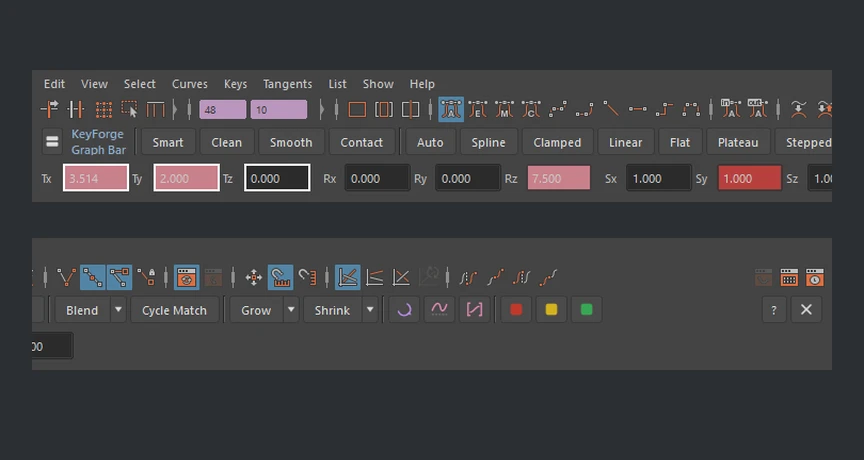
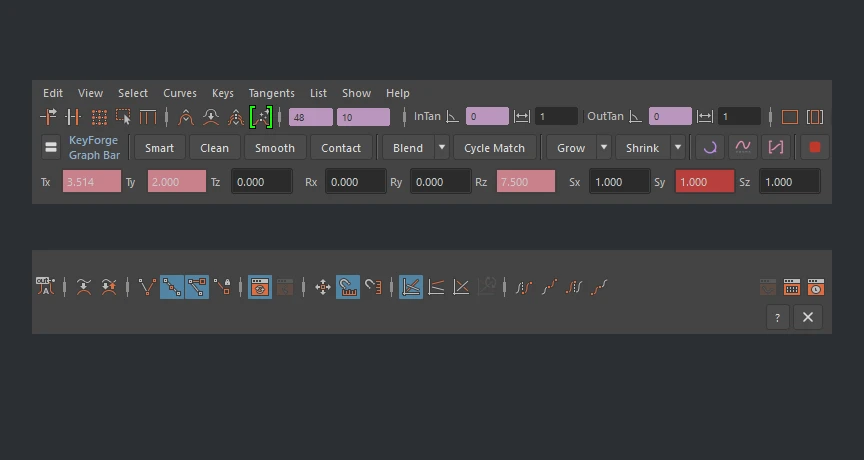
KeyForge 0.8.0 and Lite 1.1.0: new bar, KeyForge Tools window, one-row Graph Bar, Pose Library and Selection Sets sections, 1920 px toolbar images

Changed region(s): [[0.0312, 0.1522, 0.9688, 0.4261], [0.0312, 0.5174, 0.9688, 0.8217], [0.875, 0.5783, 0.9688, 0.7]]

diff --git a/_docs/keyforge.md b/_docs/keyforge.md
@@ -55,15 +55,15 @@ If you have KeyForge Lite installed, installing KeyForge removes it for you.
 
 ## Hotkeys
 
-Right-click the bar and choose **Assign hotkeys**, then type "KeyForge" in the Hotkey Editor's search. Try the pop-up slider first. You can also make the S key run Smart Key.
+Open **KeyForge Tools** (gear menu, or right-click the bar), pick a tool in the Catalog, click the Hotkey box and press the keys. If the key is already taken, KeyForge asks before it replaces it. **Clear** takes the key away. Try the pop-up slider first. You can also make the S key run Smart Key, or use **Assign hotkeys** on the bar's right-click menu to work in Maya's Hotkey Editor.
 
 ## The Graph Bar
 
-{% include figure.html slug="keyforge" name="graphbar-2row" alt="The KeyForge Graph Bar inside Maya's Graph Editor, in two rows" caption="The KeyForge Graph Bar sits inside the Graph Editor, right under its own buttons. Two rows: tools above, channels below." %}
+{% include figure.html slug="keyforge" name="graphbar-1row" alt="The KeyForge Graph Bar in one row inside Maya's Graph Editor, with the channel fields beside the tools" caption="The KeyForge Graph Bar in one row: the tools, then the channel fields, right under the Graph Editor's own buttons." %}
 
-The Graph Bar puts the same tools inside the Graph Editor, so you can use them while you look at curves. The button at the far left switches between one row and two. Click the **?** at the right end for a short guide.
+The Graph Bar puts the same tools inside the Graph Editor, so you can use them while you look at curves. It starts in one row, with the tools and the channel fields side by side. The button at the far left switches between one row and two. Click the **?** at the right end for a short guide. What doesn't fit at a narrower width waits in the » menu.
 
-{% include figure.html slug="keyforge" name="graphbar-1row" alt="The KeyForge Graph Bar in one row, with the channel fields beside the tools" caption="One row: the channel fields sit right after the tools." %}
+{% include figure.html slug="keyforge" name="graphbar-2row" alt="The KeyForge Graph Bar in two rows, with the channel fields on the second row" caption="Two rows: tools above, channels below." %}
 
 **Channel fields.** Translate, Rotate and Scale of the object picked in the Graph Editor's list, like the Channel Box:
 
@@ -71,17 +71,58 @@ The Graph Bar puts the same tools inside the Graph Editor, so you can use them w
 - **Several at once:** click and drag across the small labels (Tx, Ty, Tz and so on) to select channels, and hold Ctrl to add more. Locked and hidden channels are skipped. Then type a value to set them all, or middle-drag a box to scrub them together (Ctrl for fine, Shift for coarse). One Ctrl+Z undoes a whole scrub.
 - **Right-click a channel** for Key, Remove key, Key Translate, Rotate or Scale, Lock and Unlock, Mute and Unmute, Break connections, Reset to default, and Copy and Paste value.
 
-## Pose Library and Selection Sets
+## Pose Library
 
 {% include figure.html slug="keyforge" name="pose-library" side="right" alt="KeyForge Pose Library with pose thumbnails" caption="The Pose Library saves poses with a thumbnail." %}
 
-The **Pose Library** saves poses with a thumbnail, sorted by character into your own folders, with 2 to 8 thumbnails per row. **Selection Sets** are named groups of controls, such as Face, Eyebrows or Left Hand, that you select with one click.
+Open it from the **Poses** button in KeyForge Tools, or from the Pose Library button on the bar. It is a persistent pose browser:
 
-## Customize the bar
+- **Characters and folders:** characters are listed on the left, each with the folders you make inside it (Face, Body, Hands, named however you like). Use **+ Character** and **+ Folder**, and right-click to rename or delete. Poses saved without a character go to *Unassigned*.
+- **Thumbnails:** pick a character or folder to see its poses as a grid on the right. The **Thumbnails** slider, or Ctrl + mouse wheel, sets how many fit in a row, from 2 to 8.
+- **Save:** select the controls, choose a character and folder, and save. KeyForge also captures the viewport as the thumbnail, a visual reference only that is not part of the pose data. Saving over an existing name asks before it replaces it.
+- **Apply:** double-click a pose, or select it and press **Apply**. Use the blend slider to bring a pose in part of the way. Applying makes keys on animated channels at the current frame and sets channels that aren't animated directly, all in one undo step.
+- **Organize:** drag poses onto a folder to move them, or use **Move...**. Search looks through every character. Right-click a pose to replace it with the current pose, retake its thumbnail or rename it, and use **Delete** to remove poses.
+- **Across rigs:** controls are matched by short name, so a pose saved on one rig applies to another with the same control names, even in a different namespace.
+- **Where it lives:** pose data is stored as JSON under `Data/KeyForge/PoseLibrary/<Character>/<Folder>/` in your LP Tools data folder, outside your scenes. A library from an earlier build is sorted into this layout the first time it opens.
 
-{% include figure.html slug="keyforge" name="customizer" side="left" alt="The KeyForge bar customizer" caption="Add, remove and reorder what shows on the bar." %}
+<div style="clear:both"></div>
 
-The bar is yours to arrange. The customizer lists the bar from left to right. Drag to reorder, or double-click or use the arrows to add or remove a tool. Search the list on the right to find one, such as bake, mirror or tint. The bar updates as you go, and anything that doesn't fit moves into the » menu. You can also use presets, two rows, group labels and text labels, change the size, and undo your changes.
+## Selection Sets
+
+{% include figure.html slug="keyforge" name="selection-sets" side="left" alt="The KeyForge Selection Sets window with one button per set" caption="The Selection Sets window: one button per set, with its control count." %}
+
+Selection Sets are named groups of controls, one button each. Open the window from the Selection Sets button on the bar (it sits beside Pose Library in two rows) or from the Select group in the gear menu.
+
+1. Select some controls.
+2. Click **+ New Set from Selection** and name it, for example Face, Eyebrows or Left Hand.
+3. Click the set any time to select its controls.
+
+- **Click** selects the set, **Shift + click** adds it to your selection, and **Ctrl + click** removes it.
+- **Right-click** a set to replace its controls with your current selection, add your selection to it, remove your selection from it, rename it or delete it.
+- The window grows and wraps as you make more sets, and shows how many controls each one holds.
+- Sets are ordinary Maya object sets saved in the scene, so they travel with the file.
+
+<div style="clear:both"></div>
+
+## One row or two, workspaces and slider slots
+
+The bar starts as one slim 32 pixel row: the 14 everyday buttons and three sliders. The rows button at the far left switches to two rows, which show every button on top and up to five sliders on the row below.
+
+{% include figure.html slug="keyforge" name="ui-two-rows" alt="The KeyForge bar in two rows" caption="Two rows: every button on top, five sliders below." %}
+
+- **Workspaces** (gear menu > Workspace): Essentials, Blocking, Polish, Layout and Rig, Full, and Classic, the exact 0.7 bar. A workspace never changes the row count. Save the current bar as your own preset from the same menu.
+- **Slider slots:** each slot has a small arrow that swaps its tool for any of the 25 sliders, and the choice is remembered.
+- **The gear:** the switches (Overshoot, Smart Euler, Channel Box filter, Auto Tint, Pause Viewport), Workspace, every command in groups, Settings, KeyForge Tools and the Quick Guide. Small pills next to the target dot show the Channel Box filter and Overshoot while they are on.
+
+## KeyForge Tools
+
+{% include figure.html slug="keyforge" name="window" side="right" alt="The KeyForge Tools window, Catalog tab" caption="The Catalog lists every tool with its hotkey and a star." %}
+
+Open it from the gear menu or by right-clicking the bar. The **Catalog** lists every tool by group, with search. Click a star to put a tool on the bar (in two rows it asks whether the tool shows in both modes or only in two rows). Pick a row to read what it does, give it a hotkey, run it, or, for a slider, drag the slider right there.
+
+{% include figure.html slug="keyforge" name="customizer" side="left" alt="The KeyForge Tools window, Bar tab" caption="The Bar tab: drag to reorder what shows on the bar." %}
+
+The **Bar** tab lists the bar from left to right. Drag to reorder, add a separator, or remove an item. The bar updates as you go, anything that doesn't fit moves into the » menu, and **Undo my changes** puts it back the way it was. The same tab has the two-row switch, group labels, text labels, size and colored icons. The **Settings** tab holds the options for the tools.
 
 ## Sliders
 
@@ -101,4 +142,4 @@ The bar is yours to arrange. The customizer lists the bar from left to right. Dr
 
 ## Try it first
 
-[KeyForge Lite](/tools/keyforge-lite/) is free and gives you the Tween, Blend to Neighbors and Pull / Push sliders plus Smart Key, Reset Pose and Copy / Paste Pose.
+[KeyForge Lite](/tools/keyforge-lite/) is free and gives you the Tween, Blend to Neighbors and Pull / Push sliders plus Smart Key, Delete Keys, Nudge, Copy / Paste Pose, Reset Pose and Tint.

diff --git a/_tools/keyforge.md b/_tools/keyforge.md
@@ -21,9 +21,15 @@ features:
 
 I'm not an animator, but I've worked next to animators my whole career, and I've seen how much of their day goes to clicking through menus instead of animating. KeyForge puts 25 blend sliders and more than 170 animation tools on one compact bar docked right under the timeline. Tween and blend poses, retime keys, mirror, bake, tint keys by type, work in world space and use temp controls, without digging through menus.
 
-**Try it free first:** [KeyForge Lite](/tools/keyforge-lite/) gives you the Tween, Blend to Neighbors and Pull / Push sliders plus Smart Key, Reset Pose and Copy / Paste Pose, at no cost. If you like it, come back for the full KeyForge. Installing it removes KeyForge Lite for you.
+**Try it free first:** [KeyForge Lite](/tools/keyforge-lite/) gives you the Tween, Blend to Neighbors and Pull / Push sliders plus Smart Key, Delete Keys, Nudge, Copy / Paste Pose, Reset Pose and Tint, at no cost. If you like it, come back for the full KeyForge. Installing it removes KeyForge Lite for you.
 
-{% include figure.html slug="keyforge" name="ui" alt="The KeyForge bar docked under the Maya Time Slider" caption="The KeyForge bar, docked right under the timeline." %}
+{% include figure.html slug="keyforge" name="ui" alt="The KeyForge bar docked under the Maya Time Slider" caption="The KeyForge bar, docked right under the timeline: one slim row by default." %}
+
+## A bar that stays out of your way
+
+The bar starts as one slim 32 pixel row with the 14 buttons you use every shot and three sliders you choose yourself. Each slider slot has a small arrow that swaps in any of the 25 tools. Switch to two rows for the next tier of tools and five sliders, or pick a ready-made workspace (Essentials, Blocking, Polish, Layout and Rig, Full, or the classic 0.7 bar) from the gear menu.
+
+{% include figure.html slug="keyforge" name="ui-two-rows" alt="The KeyForge bar in two rows under the Maya Time Slider" caption="The same bar in two rows: every button on top, five sliders below." %}
 
 ## How it works
 
@@ -31,19 +37,39 @@ Select controls and drag a slider. The dot next to KeyForge shows what will chan
 
 ## What you get
 
-{% include figure.html slug="keyforge" name="graphbar-2row" alt="The KeyForge Graph Bar inside Maya's Graph Editor" caption="The KeyForge Graph Bar sits inside the Graph Editor, right under its own buttons." %}
+{% include figure.html slug="keyforge" name="graphbar-1row" alt="The KeyForge Graph Bar in one row inside Maya's Graph Editor, with the tools and the Translate, Rotate and Scale fields side by side" caption="The KeyForge Graph Bar sits inside the Graph Editor, right under its own buttons: tools and channel fields in one row." %}
 
 - **25 blend sliders:** tween and blend to neighbors, a default pose, a frame or a mirrored pose, shape and ease your curves, mend gaps and cycle, and move poses in world space.
 - **More than 170 tools:** smart keying, copy and paste keys, tangents and key colors, pose and mirror tools, world-space and rig helpers, and navigation and view tools.
 - **A Graph Bar inside the Graph Editor,** so the same tools work while you look at curves, with Translate, Rotate and Scale fields that color like the Channel Box.
 
+- **KeyForge Tools, one window for everything:** a searchable catalog of every tool. Click a star to put a tool on the bar, press keys to give it a hotkey, or run it right there.
+
+{% include figure.html slug="keyforge" name="window" alt="The KeyForge Tools window showing the tool catalog" caption="KeyForge Tools: browse, search, pin and give hotkeys." %}
+
 Every slider and tool is listed in the [KeyForge documentation](/docs/keyforge/).
 
-## Pose Library and Selection Sets
+## Pose Library
 
 {% include figure.html slug="keyforge" name="pose-library" side="right" alt="KeyForge Pose Library with pose thumbnails" caption="The Pose Library saves poses with a thumbnail." %}
 
-The Pose Library saves poses with a thumbnail, sorted by character into your own folders, with 2 to 8 thumbnails per row. Selection Sets are named groups of controls (Face, Eyebrows, Left Hand) that you select with one click.
+Save the selected controls as a pose in one click, with a thumbnail of the viewport so you can find it later. Poses are sorted by character into folders you name yourself (Face, Body, Hands), and a Thumbnails slider sets 2 to 8 poses per row. Search looks through every character at once, and you can drag poses between folders.
+
+- **Apply or blend:** double-click a pose to apply it at the current frame, or use the blend slider to bring it in gradually. Applying is one Ctrl+Z.
+- **Across rigs and scenes:** controls are matched by name with namespaces ignored, so a pose saved on one character can go onto another rig that uses the same control names.
+- **Yours to keep:** the library lives in a folder on disk, outside your scenes, so it stays when you open a new file.
+
+## Selection Sets
+
+{% include figure.html slug="keyforge" name="selection-sets" side="left" alt="The KeyForge Selection Sets window with one button per set" caption="One button per set, with the control count." %}
+
+Selection Sets are named groups of controls, such as Face, Eyebrows or Left Hand, with one button each. Select some controls, click **+ New Set from Selection**, and name it. From then on one click selects the whole group, even on a rig with a lot of controls.
+
+- **Click** a set to select it, **Shift + click** to add it to the selection, **Ctrl + click** to remove it.
+- **Right-click** a set to replace its controls with your selection, add to it, remove from it, rename it or delete it.
+- **Saved with the scene:** sets are ordinary Maya object sets, so they travel with the file and stay when you hand the scene to someone else.
+
+<div style="clear:both"></div>
 
 Right-click a slider on the bar for a floating, movable, resizable slider with fine ranges and Overshoot. You can also make the S key run Smart Key.
 

diff --git a/_tools/keyforge-lite.md b/_tools/keyforge-lite.md
@@ -35,11 +35,11 @@ The dot next to KeyForge Lite shows what the sliders will change right now: the 
 
 ## The buttons
 
-Previous and next key on the selected controls. Smart Key, which keys without breaking the curves around it and copies neighbor tangent types. Reset Pose, which returns to rig defaults. Copy Pose and Paste Pose, matched by control name with namespaces ignored, so they work across scenes in one Maya session.
+Smart Key, which keys without breaking the curves around it and copies neighbor tangent types. Delete Keys. Nudge Left and Nudge Right, which move the targeted keys one frame. Copy Pose and Paste Pose, matched by control name with namespaces ignored, so they work across scenes in one Maya session. Reset Pose, which returns to rig defaults. Tint Red, which colors the targeted keys on the timeline. The bar is one slim 32 pixel row, the same look as the full KeyForge.
 
 ## Good to know
 
-The arrows at the left of the bar move it between three spots: above the Time Slider, between the Time Slider and the Range Slider, or below the Range Slider. Right-click the bar for Overshoot (sliders can go past both ends) and the Channel Box filter, so only the channels you highlight change.
+The arrows at the left of the bar move it between three spots: above the Time Slider, between the Time Slider and the Range Slider, or below the Range Slider. The gear menu (or a right-click on the bar) has Overshoot (sliders can go past both ends) and the Channel Box filter, so only the channels you highlight change.
 
 ## Want more?
 

diff --git a/_docs/keyforge-lite.md b/_docs/keyforge-lite.md
@@ -54,9 +54,9 @@ Drag `KeyForgeLite_drag_and_drop_install.py` from the new download into Maya. It
 
 ## The buttons
 
-Previous and next key, Smart Key, Reset Pose, Copy Pose and Paste Pose.
+Smart Key, Delete Keys, Nudge Left and Nudge Right (one frame), Copy Pose, Paste Pose, Reset Pose and Tint Red. Delete Keys, Nudge and Tint act on the selected Graph Editor keys, else the keys in the highlighted Time Slider range, else the key on this frame.
 
-Right-click the bar for Overshoot, the Channel Box filter and the bar position.
+The gear (or a right-click on the bar) has Overshoot, the Channel Box filter and the bar position.
 
 ## Upgrading to KeyForge
 
